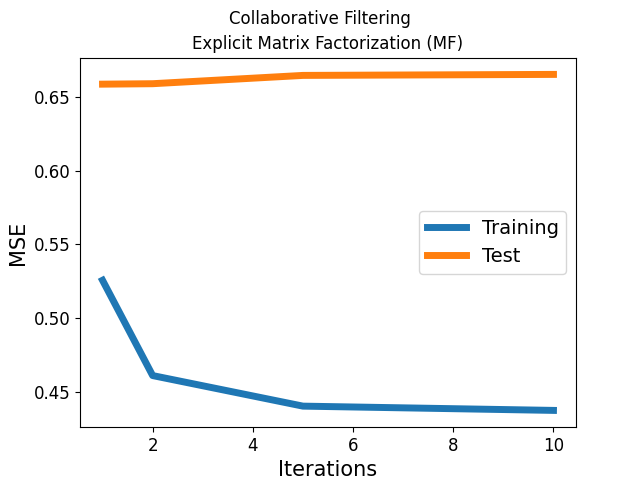
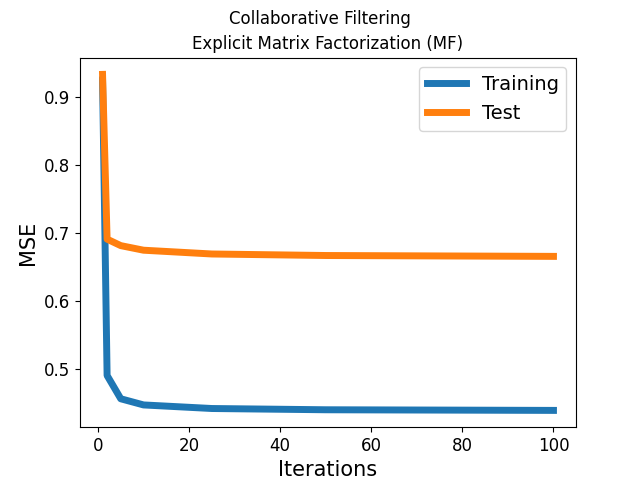
Added some comments about the overfitting phenomenon

diff --git a/recom_system.py b/recom_system.py
@@ -2,27 +2,29 @@ import utils
 from sklearn.model_selection import train_test_split
 from ExplicitMF import ExplicitMF as ExplicitMatrixFactorization
 
+# Useful libraries for RS:
+# a) sklearn.feature_extraction (e.g. TfidfVectorizer)
+# b) sklearn.metrics.pairwise (e.g. cosine_similairty)
+
 
 def collaborative_filtering(ratings):
     # Split the dataset into training and test sets
     train_events, test_events = train_test_split(ratings, test_size=0.2, random_state=99)
 
     # Run the Algorithm of Explicit Matrix Factorization
-    mf = ExplicitMatrixFactorization(train_events, verbose=True)
-    predictions = mf.predictions
+    model = ExplicitMatrixFactorization(train_events, n_factors=40, item_reg=1.0, user_reg=1.0,
+                                        verbose=True)
 
     # Test it on unseen data (train set)
     iter_array = [1, 2, 5, 10, 25, 50, 100]
-    mf.calculate_learning_curve(iter_array, test_events)
+    model.calculate_learning_curve(iter_array, test_events)
 
     # Plot
-    mf.plot_learning_curve(iter_array)
-
-    return predictions
+    model.plot_learning_curve(iter_array)
+    return model
 
 
 if __name__ == "__main__":
-
     # Import dataset
     df = utils.import_dataset("./data")
     print("EXAMPLE of an event:\n", df.loc[1000, :])
@@ -30,11 +32,18 @@ if __name__ == "__main__":
     # Create the User-Item matrix
     ratings = utils.Dataframe2UserItemMatrix(df)
 
-    # Method 1: Collaborative filtering through the "Explicit Matrix Factorization" algorithm
+    # METHOD 1: Model-based collaborative filtering
+    # Latent factors: Explicit Matrix Factorization
     print("\n1) Recommendation based on the CF method (Matrix Factorization) ...")
-    recommendations_cf = collaborative_filtering(ratings)
-    print("\nRECOMMENDATIONS \n", recommendations_cf)
+    model_cf = collaborative_filtering(ratings)
+    print("\nPREDICTIONS \n", model_cf.predictions)
 
+    # TODO tackle the overfittig phenomenon
+    # ISSUE: Huge difference between training and test data)
+    # HOW: Try to follow this guide (from "Evaluation and Tuning")
+    # - https://www.ethanrosenthal.com/2016/01/09/explicit-matrix-factorization-sgd-als/
+    # - NB: sklearn.model_selection.GridSearchCV could be useful
+    # - Could be useful SGD: https://scikit-learn.org/stable/modules/sgd.html
 
-
-
+    # ALTERNATIVE: Implement Matrix factorization through a specific library
+    # https://pypi.org/project/matrix-factorization/
